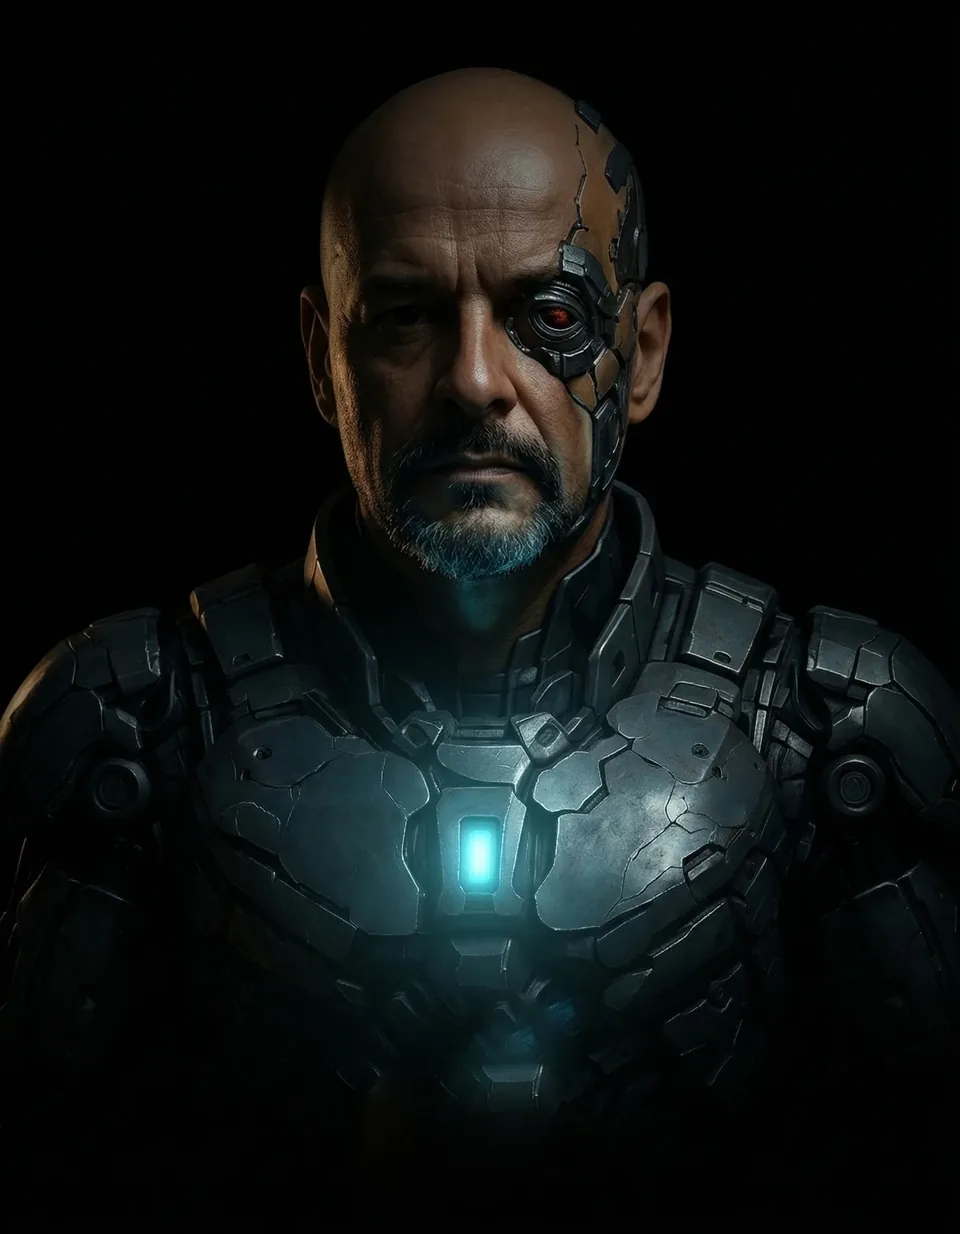
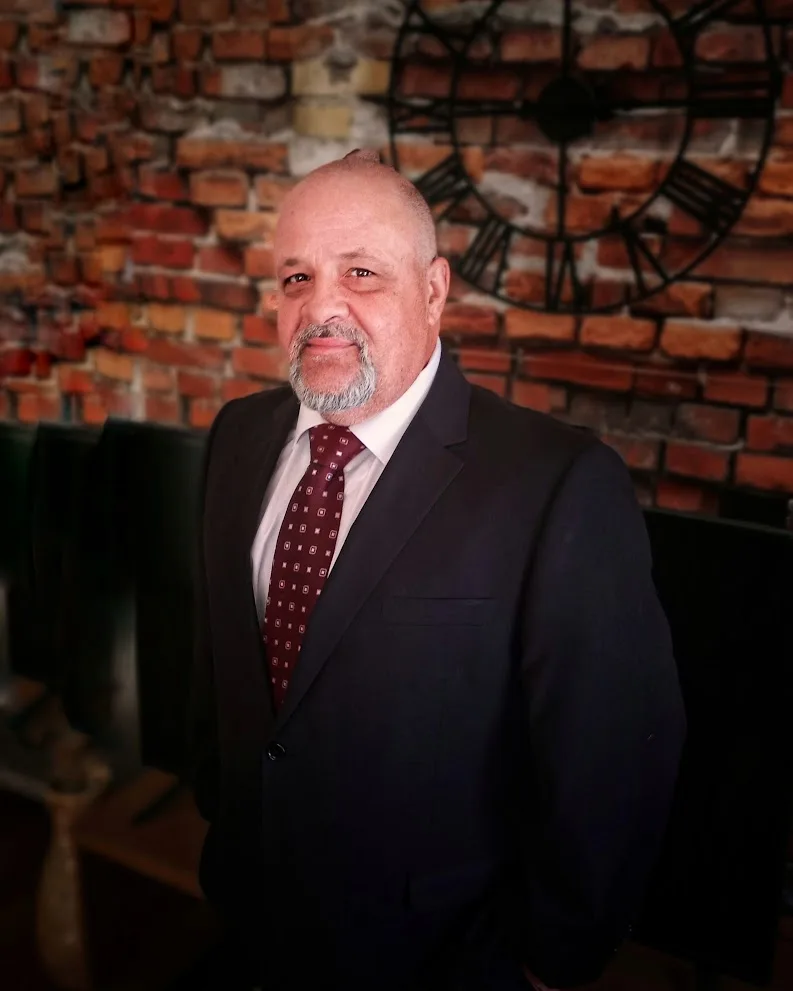
Use real founder photo; de-duplicate founder bio off the About page
steve-portrait.webp was a sci-fi cyborg render, not Steve — replaced
with a real headshot. Also removes the Founder section (portrait, bio,
"Talk to Steve") from /about, which duplicated /about/steve-martin
verbatim, including an identical CTA heading. /about is now company-only:
hero, timeline (dropped Steve's personal pre-Gobiya 1996 entry, kept the
2010 founding), and a reworded CTA. The dedicated founder page is
unaffected.

diff --git a/app/about/page.js b/app/about/page.js
@@ -1,4 +1,3 @@
-import Image from 'next/image';
 import SplitText from '../../components/SplitText';
 import { buildMetadata } from '../../lib/meta';
 
@@ -21,22 +20,6 @@ export default function AboutPage() {
         </div>
       </section>
 
-      {/* ══════════ Founder ══════════ */}
-      <section className="founder section section--tint" id="founder">
-        <div className="container founder__grid">
-          <div className="founder__portrait" data-reveal>
-            <Image src="/assets/img/steve-portrait.webp" alt="Steve Martin, founder of Gobiya" fill sizes="(max-width: 768px) 90vw, 42vw" priority />
-          </div>
-          <div className="founder__text">
-            <p className="eyebrow" data-reveal><span className="eyebrow__dot"></span>Founder</p>
-            <h2 className="founder__name" data-reveal>Steve Martin</h2>
-            <p className="founder__role" data-reveal>Founder &amp; Principal, Gobiya</p>
-            <p className="founder__bio" data-reveal>Steve has worked in web development and search since 1996, bringing 25+ years of digital marketing and engineering experience — including time at AT&amp;T WorldNet and Webcastr.com — to every engagement. He has tracked and adapted to every major Google algorithm shift since Panda in 2011, which is the foundation of Gobiya&apos;s specialty in recovering traffic after algorithm updates.</p>
-            <a href="/contact" className="link-arrow" data-reveal>Talk to Steve<svg viewBox="0 0 16 16" width="14" height="14"><path d="M2 8h11M9 3l5 5-5 5" fill="none" stroke="currentColor" strokeWidth="1.5" /></svg></a>
-          </div>
-        </div>
-      </section>
-
       {/* ══════════ Timeline ══════════ */}
       <section className="numbers section" id="timeline">
         <div className="container numbers__grid">
@@ -45,10 +28,6 @@ export default function AboutPage() {
             <a href="/ai-visibility" className="link-arrow" data-reveal>Our AI visibility approach<svg viewBox="0 0 16 16" width="14" height="14"><path d="M2 8h11M9 3l5 5-5 5" fill="none" stroke="currentColor" strokeWidth="1.5" /></svg></a>
           </div>
           <ul className="numbers__list">
-            <li className="numbers__item" data-reveal>
-              <span className="numbers__label">Steve begins working in web development and search</span>
-              <span className="numbers__value">1996</span>
-            </li>
             <li className="numbers__item" data-reveal>
               <span className="numbers__label">Gobiya founded by Steve Martin in Los Angeles</span>
               <span className="numbers__value">2010</span>
@@ -77,7 +56,7 @@ export default function AboutPage() {
       <section className="cta section" id="contact">
         <div className="container container--narrow">
           <p className="eyebrow eyebrow--center" data-reveal><span className="eyebrow__dot"></span>Start a conversation</p>
-          <h2 className="cta__title" data-words>Work directly with the person who does the work.</h2>
+          <h2 className="cta__title" data-words>Fourteen years of algorithm recovery, ready to look at your traffic.</h2>
           <div className="cta__actions" data-reveal>
             <a href="mailto:[email redacted]" className="btn btn--solid btn--big">[email redacted]</a>
             <a href="tel:+13237441338" className="btn btn--ghost btn--big">323-744-1338</a>